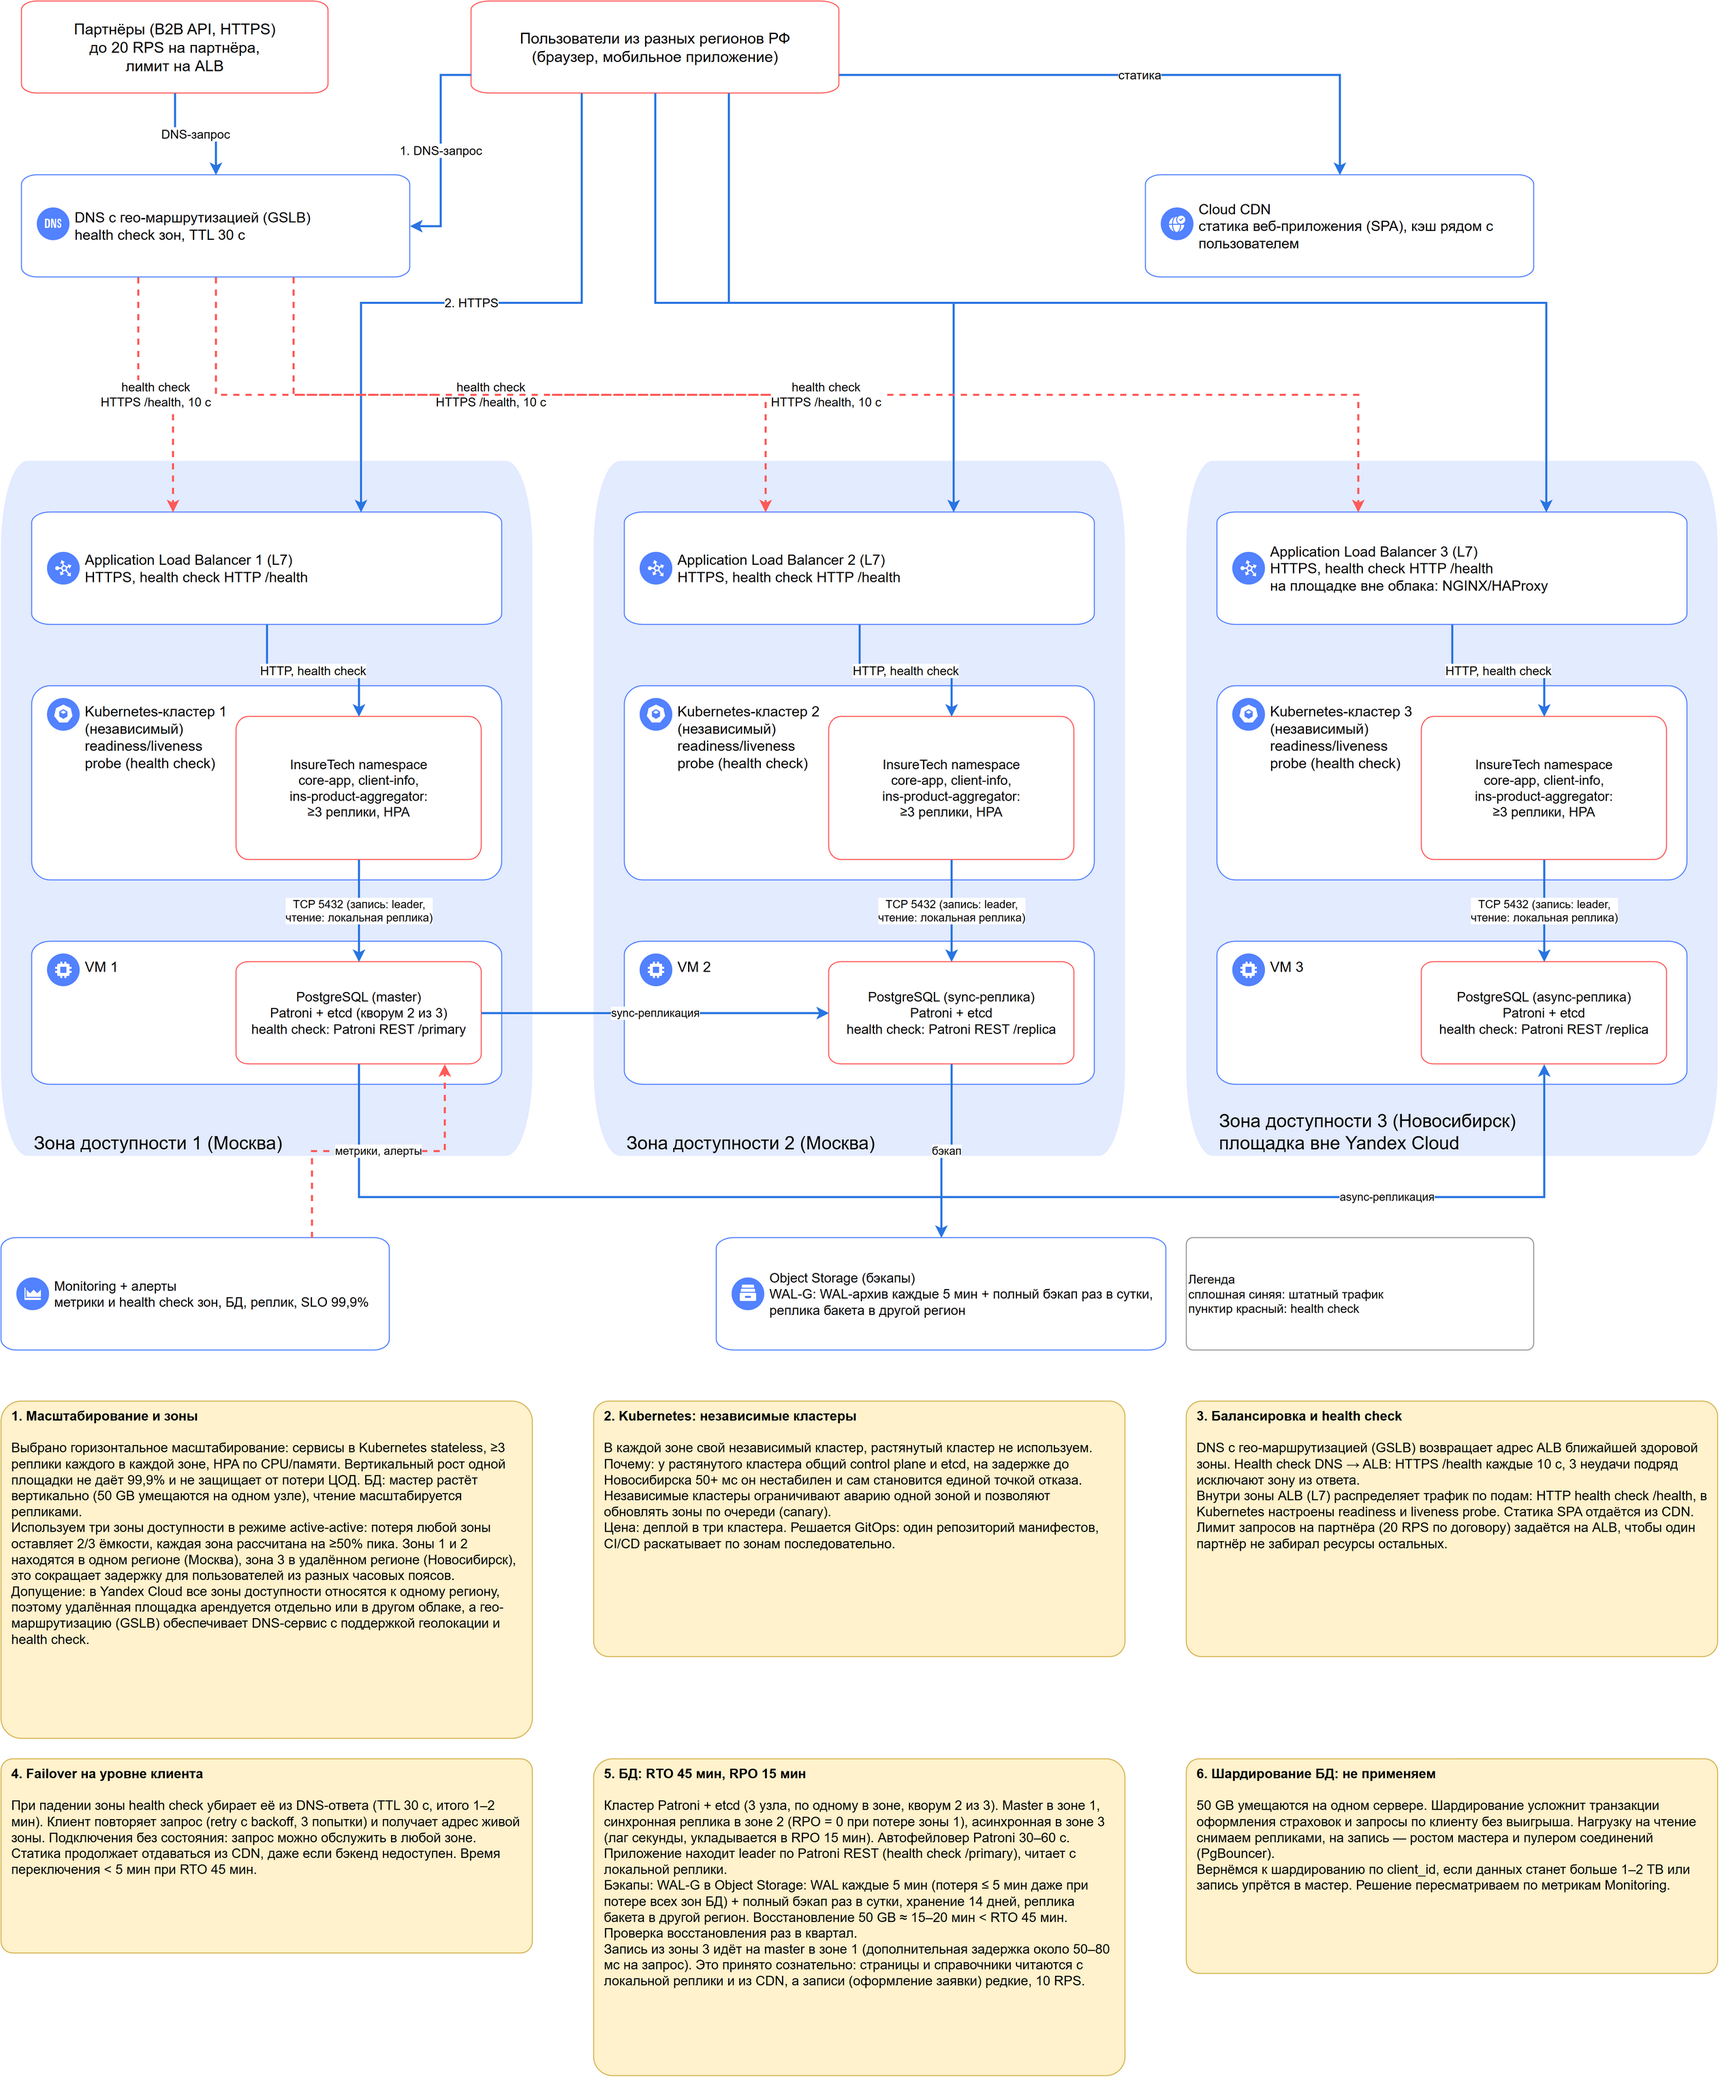
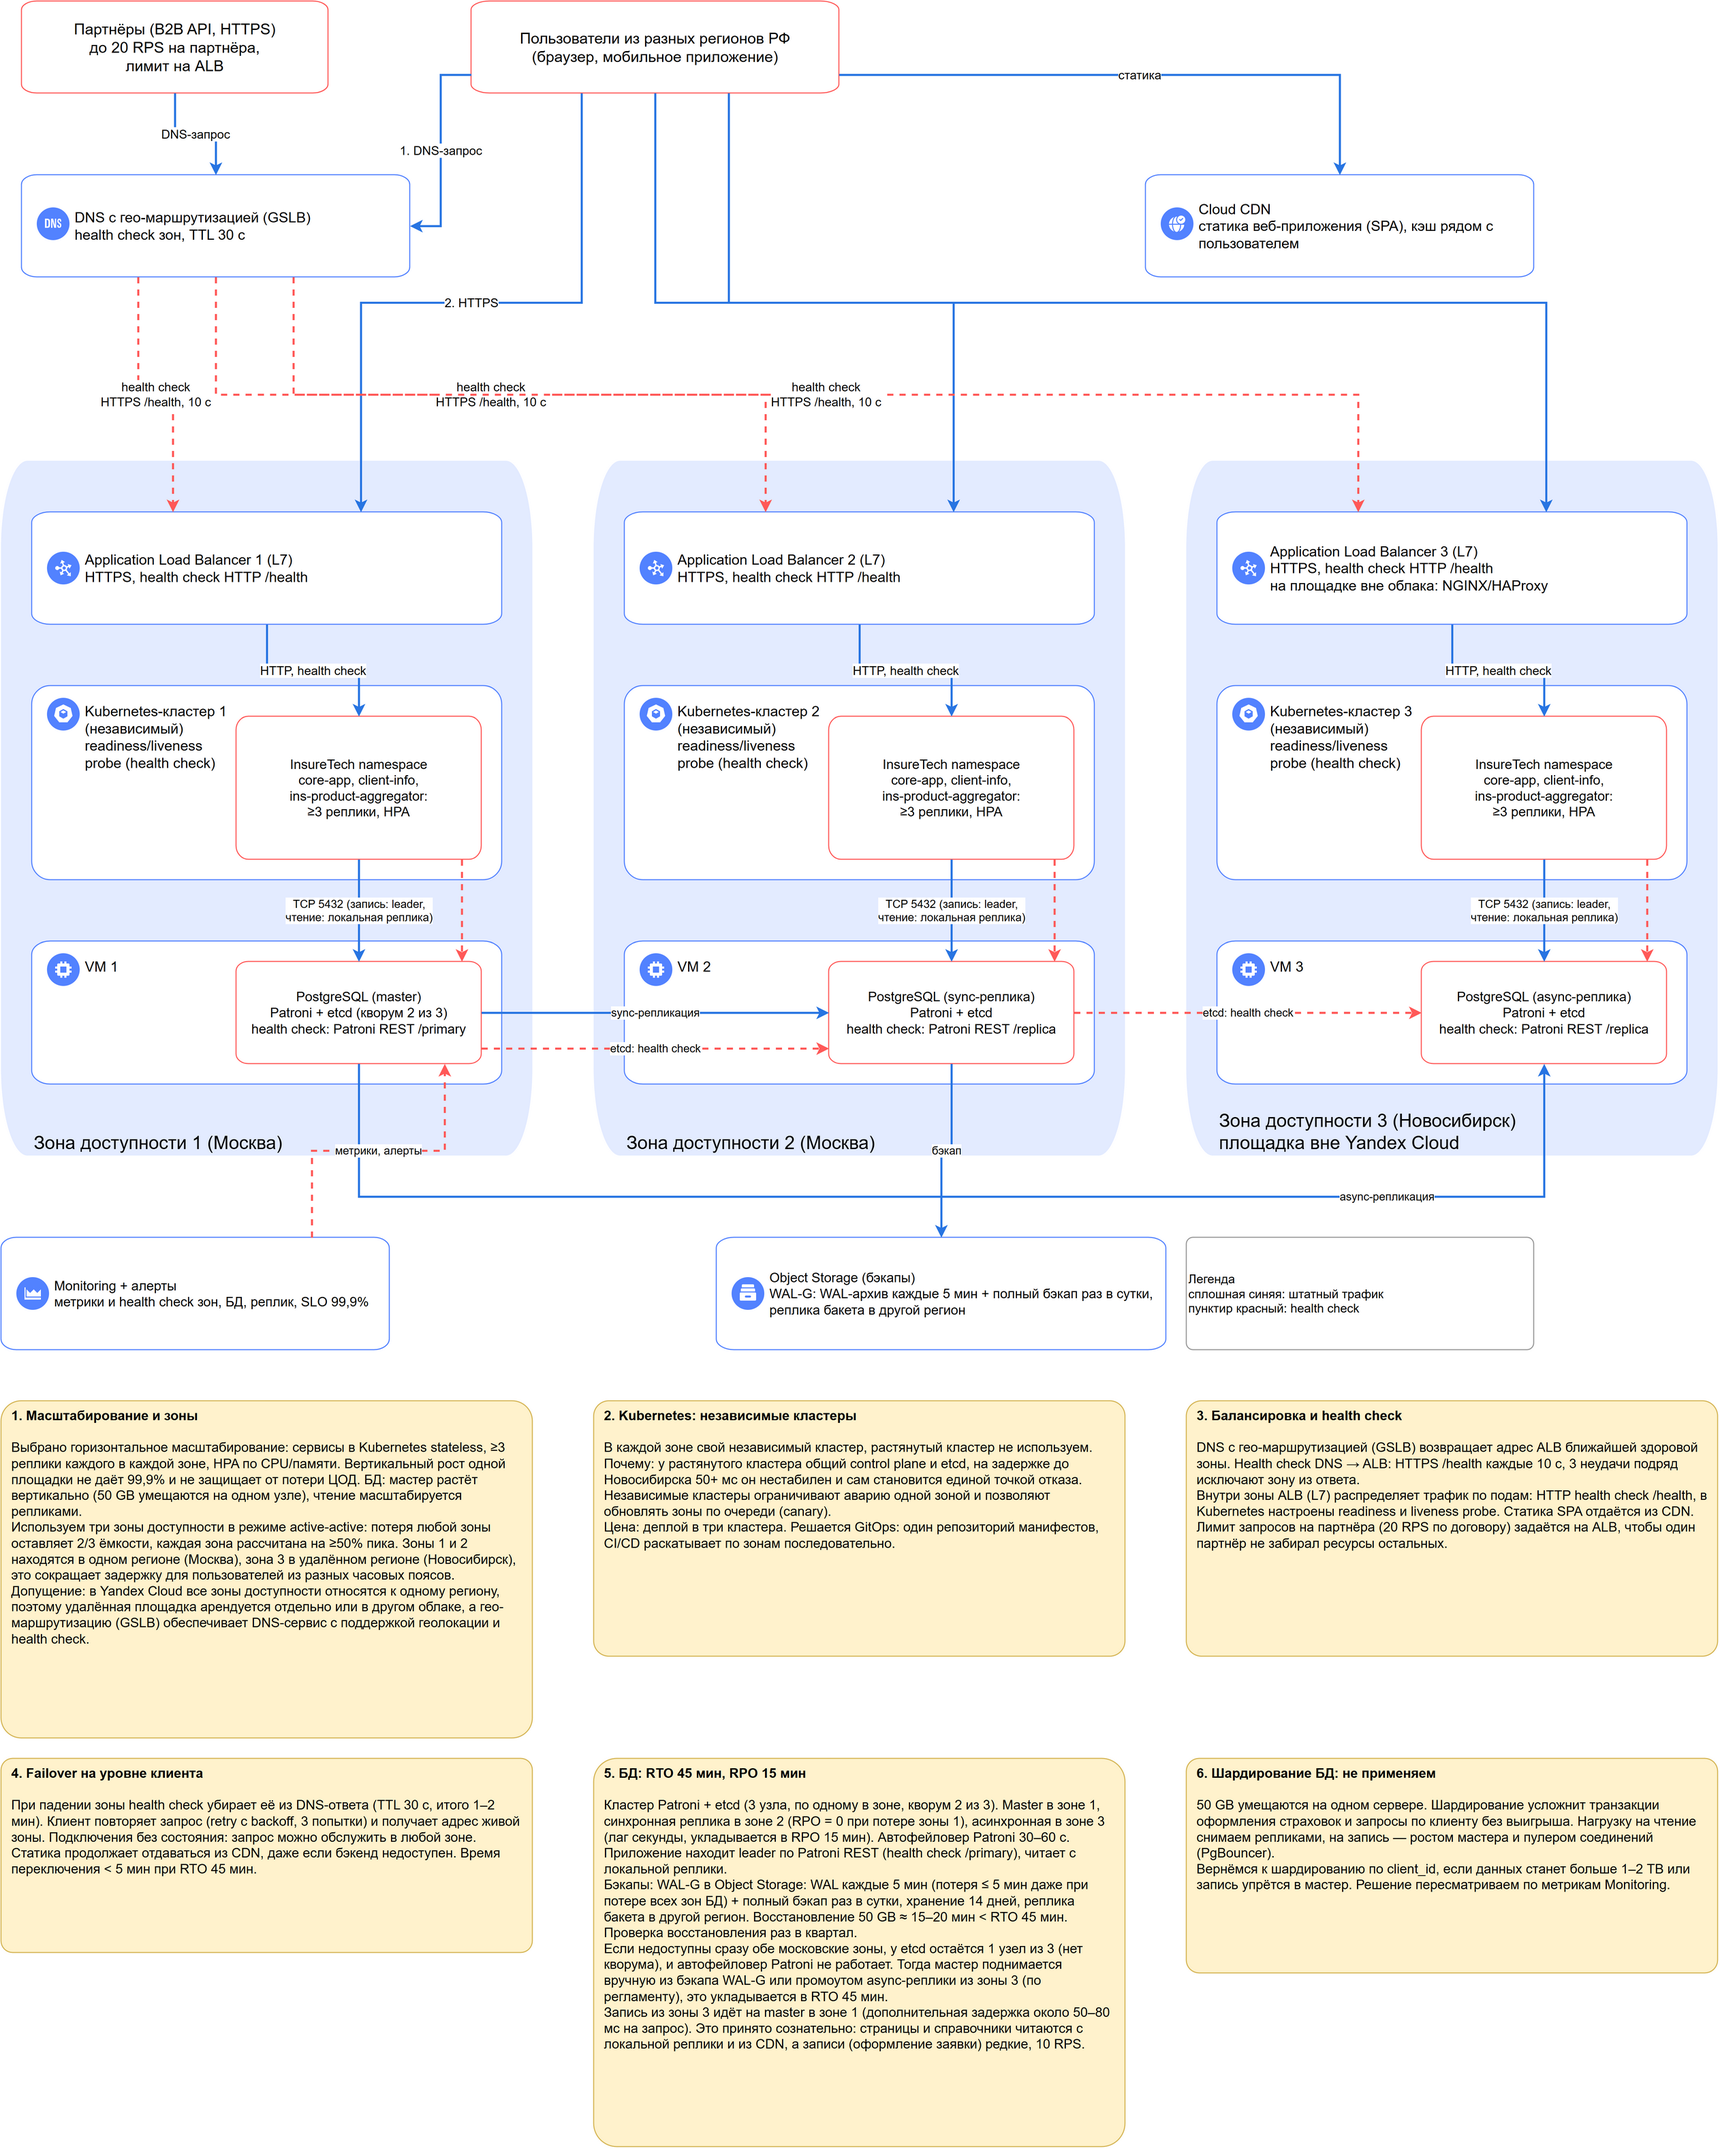
Правки по результатам третьей приёмки: health check Patroni и etcd, сценарий потери двух зон, итоги Locust

diff --git a/Task3/Проблемы_и_риски.md b/Task3/Проблемы_и_риски.md
@@ -46,6 +46,8 @@
 
 В исходной схеме БД сервиса `client-info` была подписана «ins-comp-settlement-db», как и БД взаиморасчётов. На обновлённой схеме она названа `client-info-db`, чтобы два разных хранилища не имели одинаковое имя. Функциональность сервисов при этом не менялась.
 
+Декомпозиция функциональности между сервисами тоже осталась прежней. Новые контейнеры `Apache Kafka`, `outbox-relay` и `ins-product-aggregator-db` это инфраструктура для событий и Outbox, а не новые бизнес-сервисы: границы ответственности `core-app`, `client-info`, `ins-product-aggregator` и `ins-comp-settlement` не менялись.
+
 ### 3.2. Как работают потоки
 
 - `ins-product-aggregator` опрашивает каждую СК независимо, по собственному расписанию. Сбой одной СК не влияет на остальные. Результат сравнивается со снимком в `ins-product-aggregator-db`, события публикуются только при изменении.

diff --git a/Task2/README.md b/Task2/README.md
@@ -9,6 +9,7 @@
 | `hpa.yaml` | HPA: масштабирование по памяти, цель 80%, от 1 до 10 реплик |
 | `locustfile.py` | Сценарий нагрузки: пользователи ходят на `GET /` с паузой 1–5 с |
 | `replicas-log.txt` | Состояние HPA и Deployment каждые 15 секунд во время теста |
+| `locust-summary.txt` | Итоговая таблица Locust и замер `kubectl top pod` при запросе 20Mi |
 | `hpa-describe.txt` | Вывод `kubectl describe hpa` с событием `SuccessfulRescale` и список подов |
 
 ## Запуск
